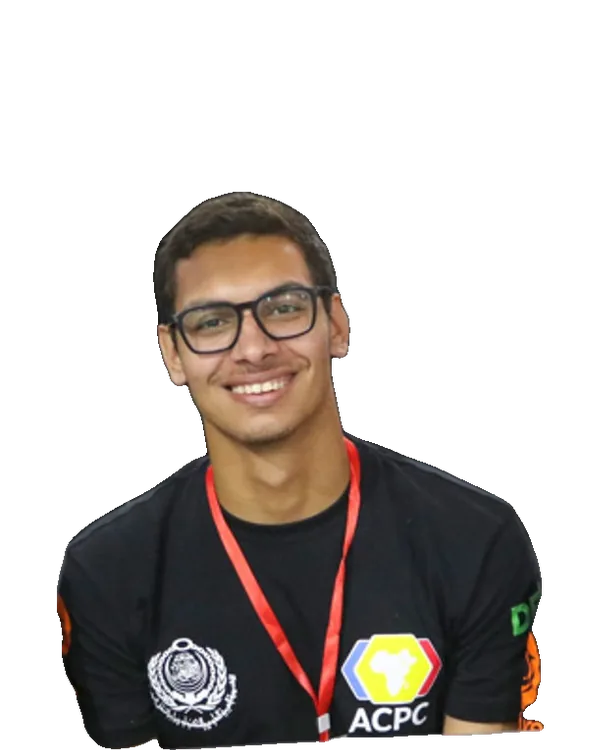
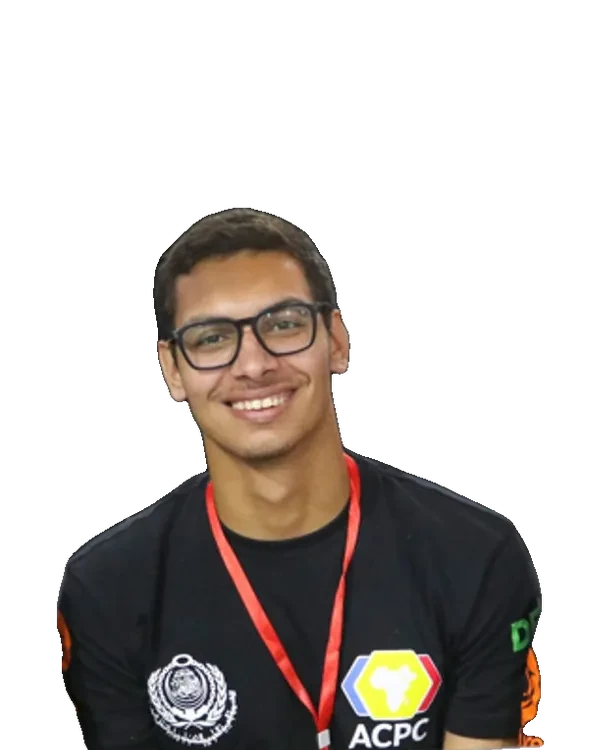
Close the gap under Peter Mina, and drop Ahmed Ibrahim to the second row
peter-mina.webp tapered over its last rows — row 730 is 453px of torso but
row 749 is 6px — so the card showed backdrop in the bottom corners under him.
The file was not padded, which is why it looked fine by a plain alpha bounds
check; the subject simply ran out before the canvas did. Shifted the image
down 16px (2.1% of height) inside the same 600x750 canvas, dropping those
tapered rows and re-padding the top, so a full-width part of the body now
meets the card edge. Canvas size is unchanged, so framing and the card's
object-fit: cover behaviour are untouched.

Ahmed Ibrahim now starts the second row of Software, next to Tarek Mohamed.
Done with a `breakBefore` flag on the member and a splitRows() helper rather
than by reordering the roster, so the four members keep their order and the
two unfilled slots end up together instead of the grid's natural 3 + 1 split.
No other member sets the flag, so every other section renders exactly as
before.

Changed region(s): [[0.09, 0.2453, 0.93, 1.0]]

diff --git a/src/data/team.ts b/src/data/team.ts
@@ -101,6 +101,13 @@ export interface TeamMember {
   cutout?: string;
   linkedIn?: string;
   /**
+   * Start a new row of the member grid at this card. The grid is three across,
+   * so a four-person section otherwise breaks 3 + 1; this lets a section ask
+   * for a different split without reordering anyone. Ignored when the whole
+   * roster already fits one row.
+   */
+  breakBefore?: boolean;
+  /**
    * Academic major, from the roster intake form — e.g. "Mechatronics",
    * "Computer and Communication Engineering". Not the same thing as
    * `department` (that's the sub-team, e.g. "Hardware"). Captured for
@@ -332,6 +339,20 @@ const section = (
   ...(opts.subsections?.length ? { subsections: opts.subsections } : {}),
   ...(opts.stackLeads ? { stackLeads: true } : {}),
 });
+
+/**
+ * Cut a member list into explicit rows at every card flagged `breakBefore`.
+ * Order is untouched — this only decides where the grid wraps, for sections
+ * whose natural three-across split reads badly.
+ */
+export function splitRows(members: TeamMember[]): TeamMember[][] {
+  const rows: TeamMember[][] = [];
+  for (const m of members) {
+    if (rows.length === 0 || m.breakBefore) rows.push([]);
+    rows[rows.length - 1].push(m);
+  }
+  return rows;
+}
 
 /**
  * Split a member list into the raised lead row and the member grid, in one
@@ -598,7 +619,9 @@ const ROSTER_2026: YearRoster = {
             gradYear: "2027",
             major: "Mechatronics",
           }),
-          slot("Member", "Ahmed Ibrahim"),
+          // Drops to the second row so the two unfilled slots sit together
+          // rather than splitting 3 + 1 across the three-across grid.
+          slot("Member", "Ahmed Ibrahim", { breakBefore: true }),
           // Submitted the form, no photo yet.
           slot("Member", "Tarek Mohamed", {
             linkedIn: "https://www.linkedin.com/in/tarek-mohamed-elsaye",

diff --git a/src/pages/Team.tsx b/src/pages/Team.tsx
@@ -15,6 +15,7 @@ import {
   ROSTERS,
   type Section,
   splitByTier,
+  splitRows,
   subTeamAccent,
   type TeamMember,
   type RosterYear,
@@ -51,9 +52,9 @@ export default function Team({
 
   /* A row of cards for a set of members — used for both the raised lead row and
    * the member grid, differing only by the class the caller passes. */
-  const cardRow = (members: TeamMember[], className: string) =>
+  const cardRow = (members: TeamMember[], className: string, key?: number) =>
     members.length > 0 && (
-      <div className={className}>
+      <div key={key} className={className}>
         {members.map((member) => (
           <Card key={member.id} member={member} rosterYear={roster.year} />
         ))}
@@ -142,7 +143,8 @@ export default function Team({
             ) : (
               <>
                 {cardRow(vices, styles.grid)}
-                {cardRow(grid, styles.grid)}
+                {/* One row per `breakBefore` group — normally just the one. */}
+                {splitRows(grid).map((row, i) => cardRow(row, styles.grid, i))}
               </>
             )}
           </div>
